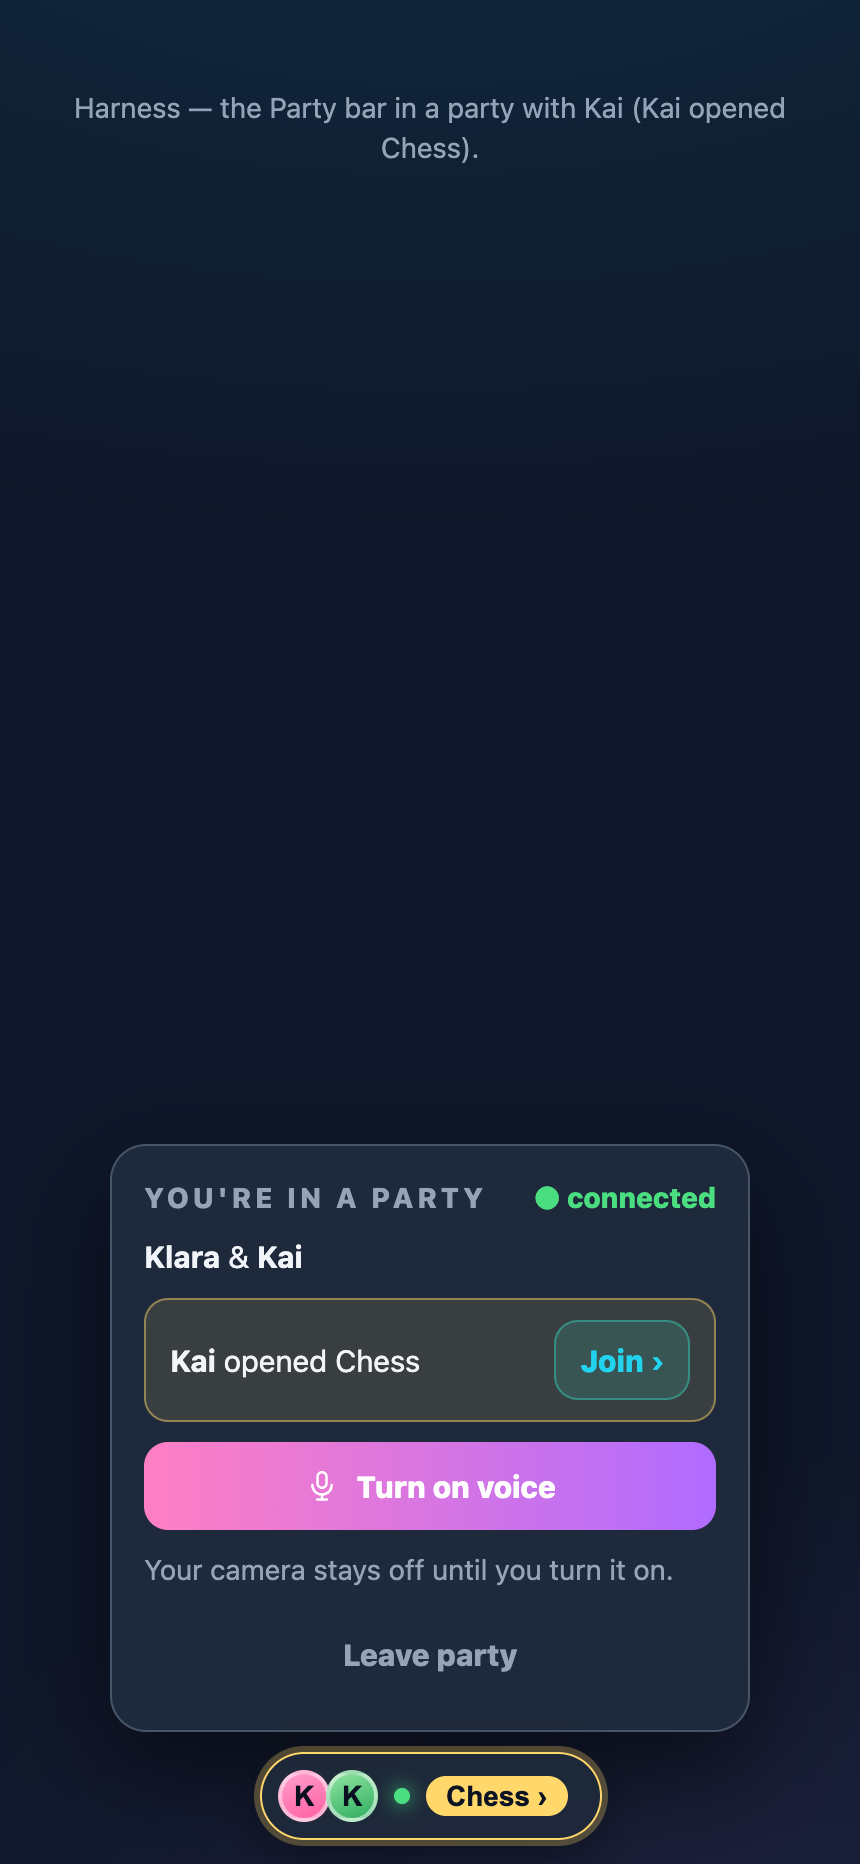
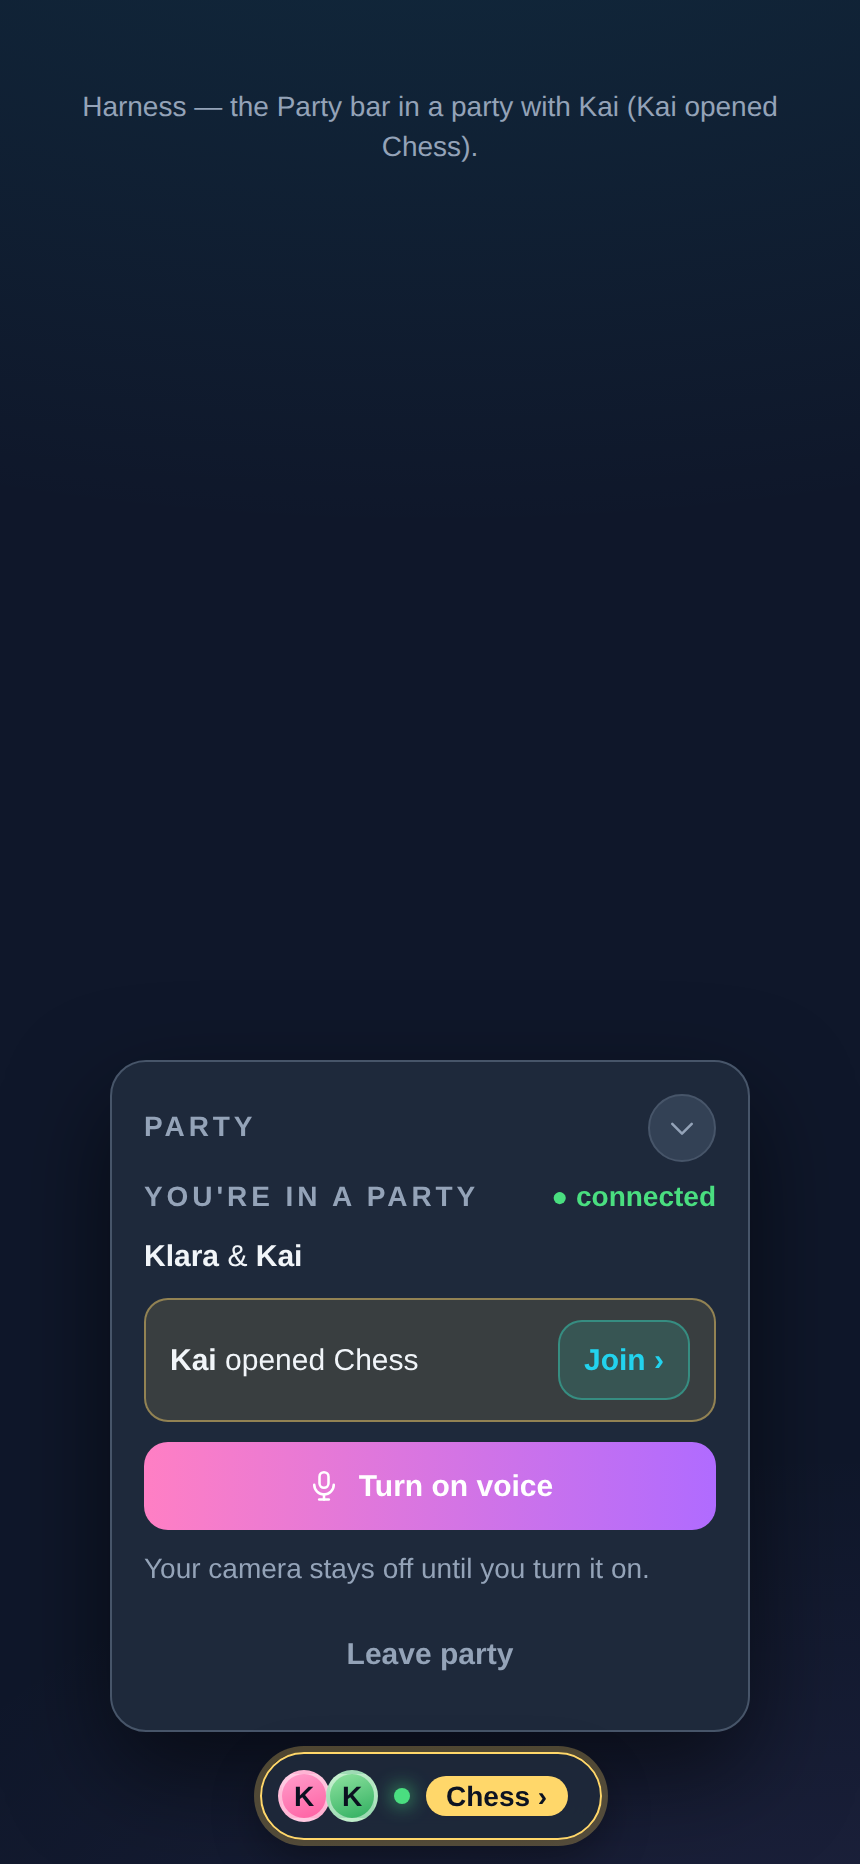
Party panel: a visible collapse chevron in a new header row
Owner feedback: once the party panel is open it isn't obvious how to put
it away (tapping the pill again was the only pointer path). The panel now
opens with a slim header — "Party" on the left, a chevron-down button on
the right — that minimizes it back to the pill and returns focus there,
in every panel state including mid-call. Escape still works as before;
minimizing never touches the party itself.

Screenshots: party-panel.png and the invite/knock panels re-captured with
the header row. Rebuilt as a single commit on main after the Magic Mirror
merge landed its icons next to this one's ChevronDownIcon.

Claude-Session: https://claude.ai/code/session_01HaHEK6kebBcBtSddUEjKJz

diff --git a/src/shared/party/PartyBar.tsx b/src/shared/party/PartyBar.tsx
@@ -12,7 +12,7 @@ import { PlayingAs } from '@shared/profile/PlayingAs';
 import { initialOf } from '@shared/profile/tickets';
 import { useProfile } from '@shared/profile/useProfile';
 import { useDismissOnEscape } from '@shared/ui/useDismissOnEscape';
-import { CameraIcon, CloseIcon, MicIcon, MicOffIcon, PartyIcon } from '@shared/ui/icons';
+import { CameraIcon, ChevronDownIcon, CloseIcon, MicIcon, MicOffIcon, PartyIcon } from '@shared/ui/icons';
 import { useParty } from './PartyContext';
 import './party.css';
 
@@ -52,6 +52,19 @@ export function PartyBar() {
     <aside className="party-root" aria-label="Party">
       {open && (
         <div className="party-panel" role="dialog" aria-label="Party">
+          {/* The panel's one always-there row: its name, and the obvious way
+              back down — tapping the pill again wasn't discoverable. */}
+          <div className="party-panel-head">
+            <span className="party-eyebrow">Party</span>
+            <button
+              className="party-collapse"
+              onClick={close}
+              aria-label="Minimize the party panel"
+              data-testid="party-collapse"
+            >
+              <ChevronDownIcon size={18} />
+            </button>
+          </div>
           {!inParty ? (
             <>
               <PlayingAs />

diff --git a/src/shared/party/party-ui.test.tsx b/src/shared/party/party-ui.test.tsx
@@ -66,6 +66,25 @@ describe('PartyBar', () => {
     expect(screen.getByTestId('party-pill')).toHaveFocus();
   });
 
+  it('the collapse chevron minimizes the panel and hands focus back to the pill', () => {
+    renderBar();
+    fireEvent.click(screen.getByTestId('party-pill'));
+    expect(screen.getByRole('dialog', { name: 'Party' })).toBeInTheDocument();
+    fireEvent.click(screen.getByTestId('party-collapse'));
+    expect(screen.queryByRole('dialog', { name: 'Party' })).toBeNull();
+    expect(screen.getByTestId('party-pill')).toHaveFocus();
+  });
+
+  it('the collapse chevron is there mid-party too — calls stay minimizable', () => {
+    mockParty.value = makeParty({ inParty: true, status: 'connected', theirName: 'Kai' });
+    renderBar();
+    fireEvent.click(screen.getByTestId('party-pill'));
+    fireEvent.click(screen.getByTestId('party-collapse'));
+    expect(screen.queryByRole('dialog', { name: 'Party' })).toBeNull();
+    // Minimizing is not leaving: the party itself is untouched.
+    expect(mockParty.value.leaveParty).not.toHaveBeenCalled();
+  });
+
   it('offers "Start a party" when not in a party', () => {
     renderBar();
     fireEvent.click(screen.getByTestId('party-pill'));

diff --git a/src/shared/party/party.css b/src/shared/party/party.css
@@ -99,6 +99,27 @@
 .party-start, .party-join, .party-waiting, .party-live { display: flex; flex-direction: column; gap: 10px; }
 
 .party-eyebrow { font-size: 14px; letter-spacing: 0.14em; text-transform: uppercase; font-weight: 800; color: var(--muted, #94a3b8); }
+
+/* The panel's header row: name on the left, the way down on the right. */
+.party-panel-head {
+  display: flex;
+  align-items: center;
+  justify-content: space-between;
+  margin-bottom: -4px; /* the panel's gap is roomy; the head sits tighter */
+}
+.party-collapse {
+  display: grid;
+  place-items: center;
+  width: 34px;
+  height: 34px;
+  border-radius: 50%;
+  border: 1px solid var(--border, #475569);
+  background: var(--surface-2, #334155);
+  color: var(--muted, #94a3b8);
+  cursor: pointer;
+}
+.party-collapse:hover { color: var(--accent, #22d3ee); border-color: var(--accent, #22d3ee); }
+.party-collapse:focus-visible { outline: 2px solid var(--accent, #22d3ee); outline-offset: 2px; }
 .party-code {
   font-size: 34px; font-weight: 900; letter-spacing: 8px; text-align: center;
   color: var(--accent, #22d3ee);

diff --git a/src/shared/ui/icons.tsx b/src/shared/ui/icons.tsx
@@ -446,6 +446,10 @@ export const PeaceHandIcon = (p: IconProps) =>
     p,
   );
 
+/** A chevron pointing down — collapse/minimize a panel. */
+export const ChevronDownIcon = (p: IconProps) =>
+  svg(<path d="M5.5 9.2 12 15.7l6.5-6.5" />, p);
+
 /**
  * A distinct filled emblem per fleet skin, drawn in the skin's colour
  * (`currentColor`, set by the caller). Replaces the old emoji skin icons.
